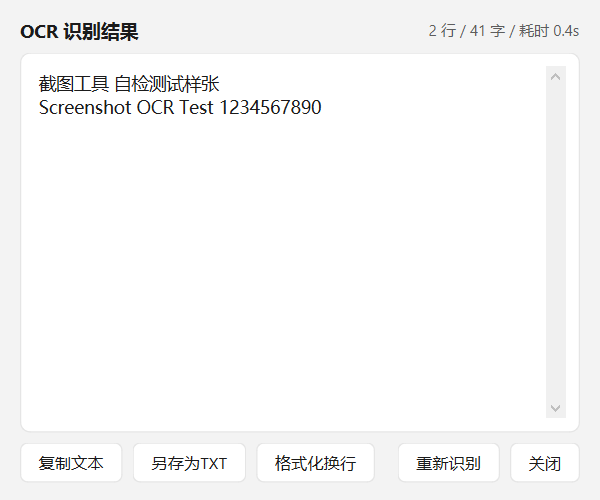
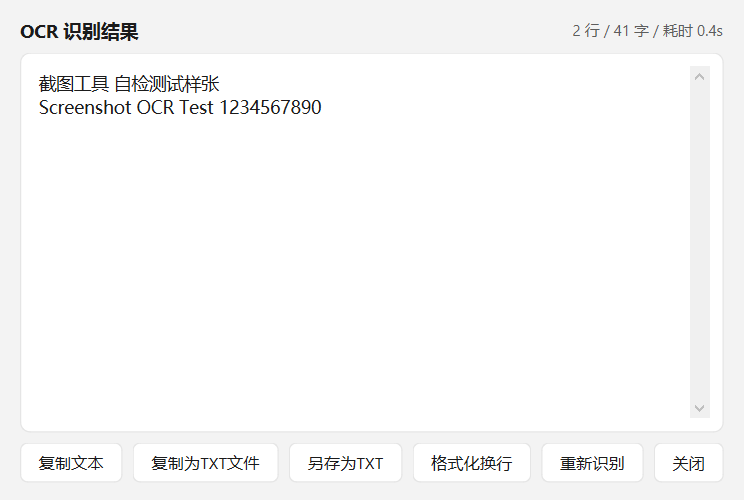
feat: copy as file - image to JPG file, OCR text to TXT file in clipboard

diff --git a/src/snapocr/ui/result_window.py b/src/snapocr/ui/result_window.py
@@ -138,12 +138,14 @@ class ResultWindow(QWidget):
 
         btns = QHBoxLayout()
         self.btn_copy = QPushButton(tr("ocr_copy_text"))
+        self.btn_copyfile = QPushButton(tr("copy_as_txt_file"))
         self.btn_save = QPushButton(tr("ocr_save_txt"))
         self.btn_wrap = QPushButton("")
         self.btn_wrap.setToolTip(tr("wrap_hint"))
         self.btn_rerun = QPushButton(tr("ocr_retry"))
         self.btn_close = QPushButton(tr("close"))
         btns.addWidget(self.btn_copy)
+        btns.addWidget(self.btn_copyfile)
         btns.addWidget(self.btn_save)
         btns.addWidget(self.btn_wrap)
         btns.addStretch(1)
@@ -153,6 +155,7 @@ class ResultWindow(QWidget):
 
         self._sync_wrap_button()
         self.btn_copy.clicked.connect(self.copy_text)
+        self.btn_copyfile.clicked.connect(self.copy_txt_as_file)
         self.btn_save.clicked.connect(self.save_txt)
         self.btn_wrap.clicked.connect(self.cycle_wrap)
         self.btn_rerun.clicked.connect(self.rerunRequested)
@@ -193,6 +196,7 @@ class ResultWindow(QWidget):
         self.text.setPlainText("")
         self.text.setPlaceholderText(tr("ocr_busy"))
         self.btn_copy.setEnabled(False)
+        self.btn_copyfile.setEnabled(False)
         self.btn_save.setEnabled(False)
 
     # ---------- 换行方式 ----------
@@ -244,6 +248,7 @@ class ResultWindow(QWidget):
         self.text.setPlaceholderText(tr("ocr_locating"))
         self.meta.setText(tr("ocr_locating"))
         self.btn_copy.setEnabled(False)
+        self.btn_copyfile.setEnabled(False)
         self.btn_save.setEnabled(False)
 
     def stream_found(self, total):
@@ -273,6 +278,7 @@ class ResultWindow(QWidget):
         nchars = sum(len(t) for t in texts)
         self.meta.setText(tr("ocr_lines", len(texts), nchars, elapsed))
         self.btn_copy.setEnabled(bool(texts))
+        self.btn_copyfile.setEnabled(bool(texts))
         self.btn_save.setEnabled(bool(texts))
         if not texts:
             self.text.setPlaceholderText(tr("ocr_empty"))
@@ -286,6 +292,7 @@ class ResultWindow(QWidget):
         self.text.setPlainText("")
         self.text.setPlaceholderText(tr("ocr_failed", msg))
         self.btn_copy.setEnabled(False)
+        self.btn_copyfile.setEnabled(False)
         self.btn_save.setEnabled(False)
 
     # ---------- 动作 ----------
@@ -298,6 +305,29 @@ class ResultWindow(QWidget):
 
         # 写入后回读校验（被占用时重试），成功/失败都给明确反馈
         self._pop_toast(tr("copied") if clip.set_text(t) else tr("copy_failed"))
+
+    def copy_txt_as_file(self):
+        """把识别文本复制为 TXT 文件到剪贴板（弹窗输入文件名，默认同另存默认名）。"""
+        from PyQt5.QtWidgets import QInputDialog
+
+        t = self.text.toPlainText()
+        if not t:
+            self._pop_toast(tr("ocr_empty"))
+            return
+        from . import clipboard as clip
+
+        default = tr("default_txt_filename") % time.strftime("%Y%m%d_%H%M%S")
+        text, ok = QInputDialog.getText(
+            self, tr("copy_as_file"), tr("filename_label"), text=default
+        )
+        if not ok or not text.strip():
+            return
+        path = clip.copy_text_as_file(t, text)
+        self._pop_toast(
+            tr("copied_as_file", os.path.basename(path))
+            if path
+            else tr("copy_file_failed", text.strip())
+        )
 
     def save_txt(self):
         from ..paths import pictures_dir

diff --git a/scripts/probes/round33_suite.py b/scripts/probes/round33_suite.py
@@ -654,3 +654,80 @@ def run(ctx):
     tbx.deleteLater()
     sdx.deleteLater()
     check("X3 全部下拉换用靠边自适应类", x3)
+
+    # ---- Y1~Y5 复制为文件（2026-10-26 新功能） ----
+    from PyQt5.QtGui import QGuiApplication
+
+    from snapocr.ui import clipboard as clipmod
+    from snapocr.ui.preview_dialog import PreviewDialog
+
+    # Y1 图片复制为 JPG 文件：落盘 + 剪贴板带文件 URL；不带图像数据（用户口径）
+    img_y = QImage(60, 40, QImage.Format_RGB888)
+    img_y.fill(Qt.red)
+    p1 = clipmod.copy_image_as_file(img_y, "y测试")
+    cb_y = QGuiApplication.clipboard()
+    md_y = cb_y.mimeData()
+    y1 = (
+        p1 is not None
+        and p1.endswith("y测试.jpg")
+        and os.path.isfile(p1)
+        and md_y.hasUrls()
+        and os.path.normpath(md_y.urls()[0].toLocalFile()) == os.path.normpath(p1)
+        and not md_y.hasImage()
+    )
+    check("Y1 图片复制为JPG文件(仅文件形态)", y1)
+
+    # Y2 文本复制为 TXT 文件：utf-8-sig 内容 + 文件 URL
+    p2 = clipmod.copy_text_as_file("中文内容 Y2", "y文本")
+    with open(p2, "rb") as f:
+        head_y = f.read(3)
+    with open(p2, encoding="utf-8-sig") as f:
+        body_y = f.read()
+    md_y2 = cb_y.mimeData()
+    y2 = (
+        p2 is not None
+        and p2.endswith("y文本.txt")
+        and head_y == b"\xef\xbb\xbf"
+        and body_y == "中文内容 Y2"
+        and md_y2.hasUrls()
+        and os.path.normpath(md_y2.urls()[0].toLocalFile()) == os.path.normpath(p2)
+        # hasText() 对 uri-list 有回落（Qt 既定行为），"仅文件"看格式表：不含 text/plain
+        and "text/plain" not in md_y2.formats()
+    )
+    check("Y2 文本复制为TXT文件(utf-8-sig,仅文件形态)", y2)
+
+    # Y3 同名去重 + 空名拒绝
+    p3 = clipmod.copy_text_as_file("dup", "y文本")
+    y3 = p3 is not None and p3 != p2 and clipmod.copy_text_as_file("x", "  ") is None
+    check("Y3 同名去重/空名拒绝", y3)
+
+    # Y4 三处按钮存在并接线；结果窗可用态同步（busy 置灰 → 有内容恢复）
+    tby = EditorToolbar()
+    rwy = ResultWindow(cfg=Config())
+    pvy = PreviewDialog(img_y, ctx.cfg)
+    y4 = (
+        bool(tby.btn_copyfile.text().strip())
+        and rwy.btn_copyfile is not None
+        and pvy.btn_file is not None
+    )
+    rwy.begin_stream()
+    y4b = rwy.btn_copyfile.isEnabled() is False
+    rwy.set_results([("文本", 0.9, None)], 0.1)
+    y4c = rwy.btn_copyfile.isEnabled()
+    tby.deleteLater()
+    rwy.close()
+    rwy.deleteLater()
+    pvy.deleteLater()
+    check("Y4 三处按钮+可用态同步", y4 and y4b and y4c)
+
+    # Y5 启动清理接线 + i18n 双语齐备；清掉探针刚写的文件（不留垃圾）
+    y5 = (
+        "cleanup_clip_files" in _src("src/snapocr/main.py")
+        and _i18n._ZH.get("copy_as_file") is not None
+        and _i18n._EN.get("copy_as_file") is not None
+        and _i18n._EN.get("default_filename_jpg") == "screenshot_%s.jpg"
+        and _i18n._ZH.get("default_filename_jpg") == "截图_%s.jpg"
+    )
+    clipmod.cleanup_clip_files()
+    y5 = y5 and not os.path.exists(os.path.dirname(p1))
+    check("Y5 启动清理+i18n双语齐备", y5)

diff --git a/src/snapocr/ui/preview_dialog.py b/src/snapocr/ui/preview_dialog.py
@@ -56,14 +56,16 @@ class PreviewDialog(QWidget):
 
         btns = QHBoxLayout()
         self.btn_copy = QPushButton(tr("preview_copy") + "  (Ctrl+C)", objectName="primary")
-        self.btn_save = QPushButton(tr("preview_save") + "  (Ctrl+S)")
+        self.btn_file = QPushButton(tr("copy_as_jpg"))
+        self.btn_save = QPushButton(tr("preview_save"))
         self.btn_retry = QPushButton(tr("preview_retry"))
         self.btn_cancel = QPushButton(tr("preview_cancel"))
-        for b in (self.btn_copy, self.btn_save, self.btn_retry, self.btn_cancel):
+        for b in (self.btn_copy, self.btn_file, self.btn_save, self.btn_retry, self.btn_cancel):
             btns.addWidget(b)
         root.addLayout(btns)
 
         self.btn_copy.clicked.connect(self._copy)
+        self.btn_file.clicked.connect(self._copy_as_file)
         self.btn_save.clicked.connect(self._save)
         self.btn_retry.clicked.connect(self._retry)
         self.btn_cancel.clicked.connect(self._cancel)
@@ -125,7 +127,7 @@ class PreviewDialog(QWidget):
     # ---------- 动作（防抖） ----------
     def _set_busy(self, busy):
         self._busy = busy
-        for b in (self.btn_copy, self.btn_save, self.btn_retry, self.btn_cancel):
+        for b in (self.btn_copy, self.btn_file, self.btn_save, self.btn_retry, self.btn_cancel):
             b.setEnabled(not busy)
 
     def keyPressEvent(self, ev):
@@ -157,6 +159,28 @@ class PreviewDialog(QWidget):
         else:
             # 剪贴板被占用：留在预览窗并如实报错，不再假装复制成功
             self.meta.setText(tr("copy_failed"))
+
+    def _copy_as_file(self):
+        """把预览图复制为 JPG 文件到剪贴板（弹窗输入文件名，默认同保存默认名）。"""
+        if self._busy:
+            return
+        from PyQt5.QtWidgets import QInputDialog
+
+        from . import clipboard as clip
+
+        default = tr("default_filename_jpg") % time.strftime("%Y%m%d_%H%M%S")
+        text, ok = QInputDialog.getText(
+            self, tr("copy_as_file"), tr("filename_label"), text=default
+        )
+        if not ok or not text.strip():
+            return
+        self._set_busy(True)
+        path = clip.copy_image_as_file(self.image, text)
+        self._set_busy(False)
+        if path:
+            self.copyDone.emit()  # 与「复制」同语义：成功即结束会话
+        else:
+            self.meta.setText(tr("copy_file_failed", text.strip()))
 
     def _save(self):
         if self._busy:

diff --git a/src/snapocr/ui/overlay.py b/src/snapocr/ui/overlay.py
@@ -133,6 +133,7 @@ class OverlayWindow(QWidget):
         self.toolbar.ocrClicked.connect(self._ocr)
         self.toolbar.set_ocr_active(False)
         self.toolbar.copyClicked.connect(self._copy)
+        self.toolbar.copyFileClicked.connect(self._copy_as_file)
         self.toolbar.saveClicked.connect(self._save)
         self.toolbar.cancelClicked.connect(self.cancelled)
 
@@ -869,6 +870,24 @@ class OverlayWindow(QWidget):
         # 写入后回读校验（被占用时重试），失败如实提示，不再无条件报"已复制"
         ok = clip.set_image(self.composite())
         self._toast(tr("copied") if ok else tr("copy_failed"))
+
+    def _copy_as_file(self):
+        """把标注图复制为 JPG 文件到剪贴板（弹窗输入文件名，默认同保存默认名）。"""
+        from PyQt5.QtWidgets import QInputDialog
+
+        default = tr("default_filename_jpg") % time.strftime("%Y%m%d_%H%M%S")
+        text, ok = QInputDialog.getText(
+            self, tr("copy_as_file"), tr("filename_label"), text=default
+        )
+        if not ok or not text.strip():
+            return
+        self.canvas._commit_pending_text()
+        path = clip.copy_image_as_file(self.composite(), text)
+        self._toast(
+            tr("copied_as_file", os.path.basename(path))
+            if path
+            else tr("copy_file_failed", text.strip())
+        )
 
     def _save(self):
         from PyQt5.QtWidgets import QFileDialog

diff --git a/src/snapocr/i18n.py b/src/snapocr/i18n.py
@@ -67,6 +67,15 @@ _ZH = {
     "lang_default": "中文（跟随系统默认）",
     "default_filename": "截图_%s.png",
     "default_txt_filename": "OCR_文本_%s.txt",
+    "default_filename_jpg": "截图_%s.jpg",
+    "copy_file": "复制文件",
+    "copy_file_img_tip": "把标注图复制为JPG文件到剪贴板（粘贴到资源管理器/聊天窗口即得文件）",
+    "copy_as_file": "复制为文件",
+    "copy_as_jpg": "复制为文件(JPG)",
+    "copy_as_txt_file": "复制为TXT文件",
+    "filename_label": "文件名",
+    "copied_as_file": "已复制文件：{}",
+    "copy_file_failed": "复制为文件失败：{}",
     "ok": "确定",
     "apply": "应用",
     "close": "关闭",
@@ -172,6 +181,15 @@ _EN = {
     "lang_default": "Follow system",
     "default_filename": "screenshot_%s.png",
     "default_txt_filename": "ocr_text_%s.txt",
+    "default_filename_jpg": "screenshot_%s.jpg",
+    "copy_file": "Copy file",
+    "copy_file_img_tip": "Copy the annotated image as a JPG file to the clipboard",
+    "copy_as_file": "Copy as file",
+    "copy_as_jpg": "Copy as file (JPG)",
+    "copy_as_txt_file": "Copy as TXT file",
+    "filename_label": "File name",
+    "copied_as_file": "File copied: {}",
+    "copy_file_failed": "Copy as file failed: {}",
     "ok": "OK",
     "apply": "Apply",
     "close": "Close",

diff --git a/src/snapocr/ui/editor.py b/src/snapocr/ui/editor.py
@@ -108,6 +108,7 @@ class EditorToolbar(QWidget):
     clearClicked = pyqtSignal()
     ocrClicked = pyqtSignal()
     copyClicked = pyqtSignal()
+    copyFileClicked = pyqtSignal()
     saveClicked = pyqtSignal()
     cancelClicked = pyqtSignal()
 
@@ -158,6 +159,13 @@ class EditorToolbar(QWidget):
         self.btn_copy.setToolTip(tr("copy") + " (Ctrl+C)")
         self.btn_copy.clicked.connect(self.copyClicked)
         rowA.addWidget(self.btn_copy)
+
+        self.btn_copyfile = QToolButton()
+        self.btn_copyfile.setText(tr("copy_file"))
+        self.btn_copyfile.setProperty("textBtn", True)
+        self.btn_copyfile.setToolTip(tr("copy_file_img_tip"))
+        self.btn_copyfile.clicked.connect(self.copyFileClicked)
+        rowA.addWidget(self.btn_copyfile)
 
         self.btn_save = QToolButton()
         self.btn_save.setText(tr("save"))

diff --git a/src/snapocr/main.py b/src/snapocr/main.py
@@ -143,6 +143,10 @@ def main():
         return 0
 
     si.listen()
+    # "复制为文件"的上次落盘残留清理（本会话刚写入的文件不受影响）
+    from .ui.clipboard import cleanup_clip_files
+
+    cleanup_clip_files()
     from .app import SnapApp
 
     show_tip = (not once) and "--hidden" not in args and not cfg.get("autostart_shown_tip", False)

diff --git a/docs/03-使用说明.md b/docs/03-使用说明.md
@@ -45,12 +45,13 @@
 | 编辑 | 展开/收起标注工具菜单（默认展开） | — |
 | OCR识别 | 本地识别选区文字（含标注的所见即所得画面；马赛克遮住的内容不会被读出） | Ctrl+Enter |
 | 复制 | 标注图存入剪贴板 | Ctrl+C |
+| 复制文件 | 标注图**以 JPG 文件形式**复制到剪贴板（弹窗输入文件名，默认 `截图_时间戳.jpg`；粘贴到资源管理器/聊天窗口即得文件；文件暂存系统临时目录，下次启动自动清理） | — |
 | 保存 | PNG/JPG 保存（默认时间戳文件名） | Ctrl+S |
 | 取消 | 放弃本次截图 | Esc |
 
 「编辑」展开/收起时第二行工具菜单带**高度动画**（展开向下滑出、收起向上缩回，约 0.2 秒），
 第一行按钮的位置与间距**保持不变**，不会随展开/折叠被拉伸或位移。
-| 完成 | 打开**预览确认窗**：复制 / 另存 / 重试(回到编辑) / 取消，带 Ctrl+C/Ctrl+S 加速键 | Enter |
+| 完成 | 打开**预览确认窗**：复制 / 复制为文件(JPG) / 另存 / 重试(回到编辑) / 取消，带 Ctrl+C/Ctrl+S 加速键 | Enter |
 
 标注工具：**画笔 / 涂色(荧光笔) / 文字 / 矩形 / 椭圆 / 箭头 / 马赛克 / 橡皮擦**，
 配 8 色色板与线宽（文字工具时为字号）选择——**画笔颜色跨会话记忆**（记住上次使用的颜色），
@@ -72,7 +73,8 @@
 
 ## 5. OCR 结果窗口
 
-显示识别文本（可编辑），头部为行数/字数/耗时；按钮：复制文本、另存 TXT、**格式化换行**、重新识别、关闭。
+显示识别文本（可编辑），头部为行数/字数/耗时；按钮：复制文本、**复制为TXT文件**（弹窗输入文件名，
+默认 `OCR_文本_时间戳.txt`，以文件形式进剪贴板）、另存 TXT、**格式化换行**、重新识别、关闭。
 **「复制文本」成功后在窗口内弹出「已复制到剪贴板」提示**；剪贴板被其他程序占用导致失败时，
 会如实提示「复制失败」而不是静默（另存 TXT 成功同样有提示）。
 
